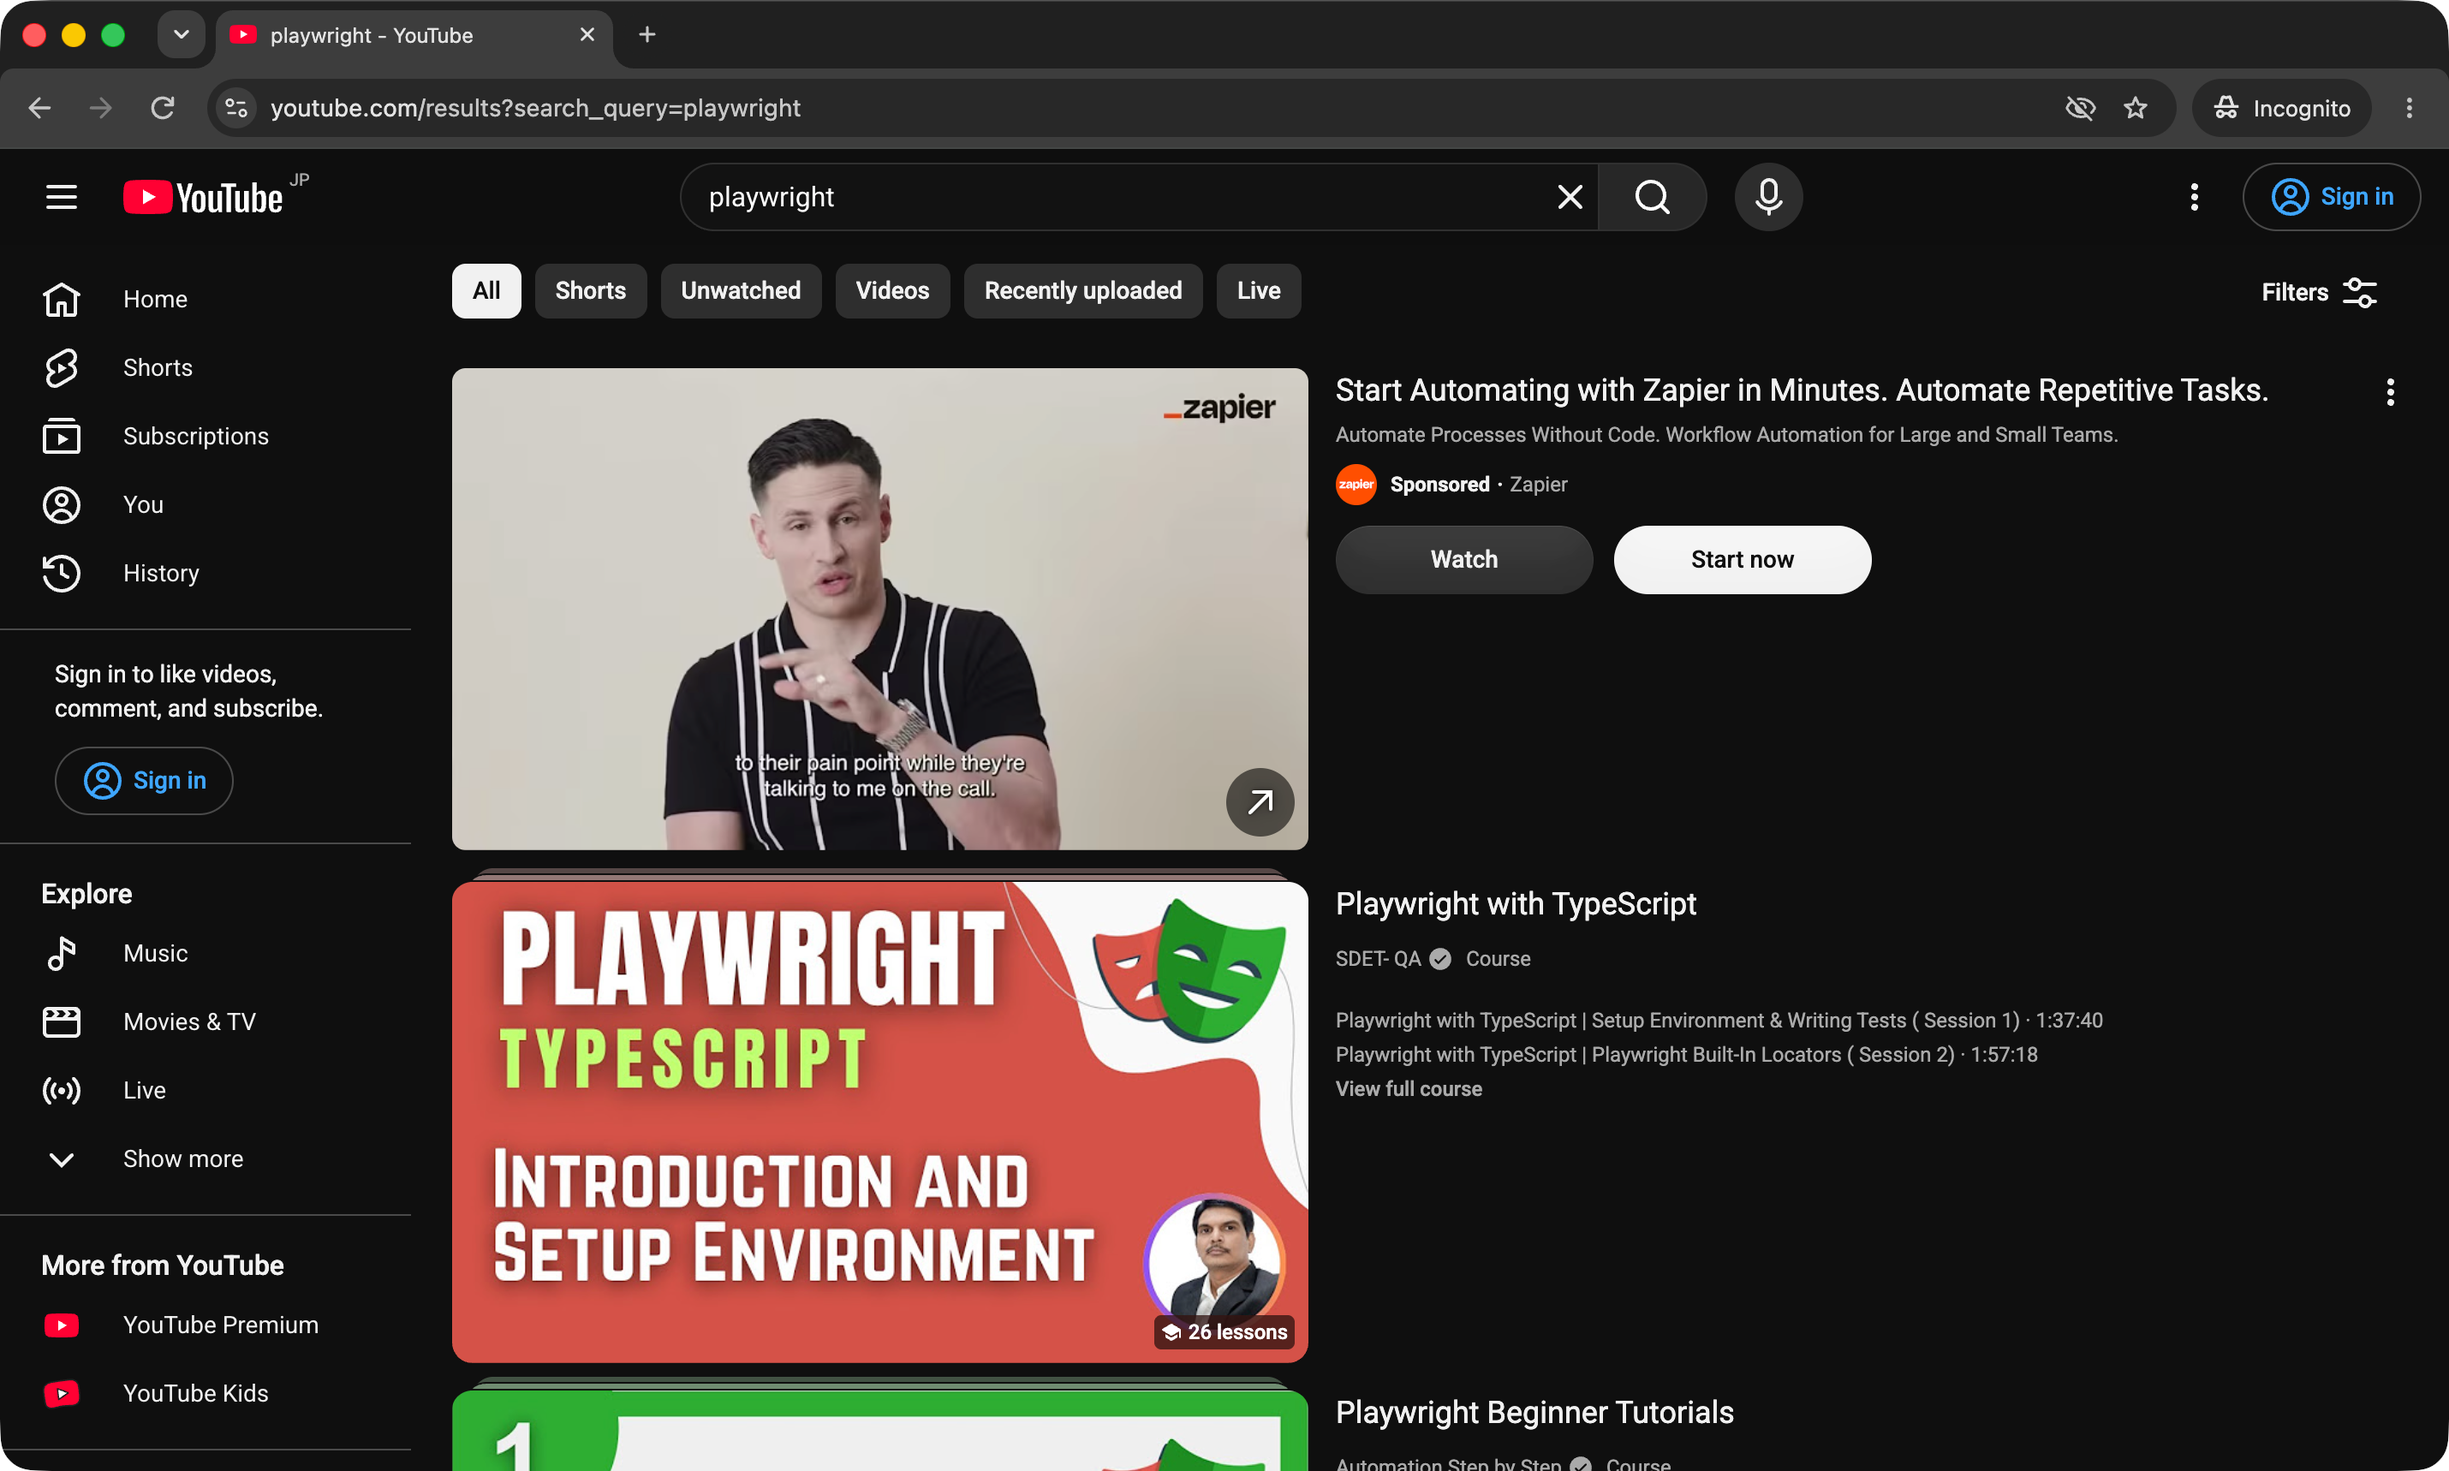
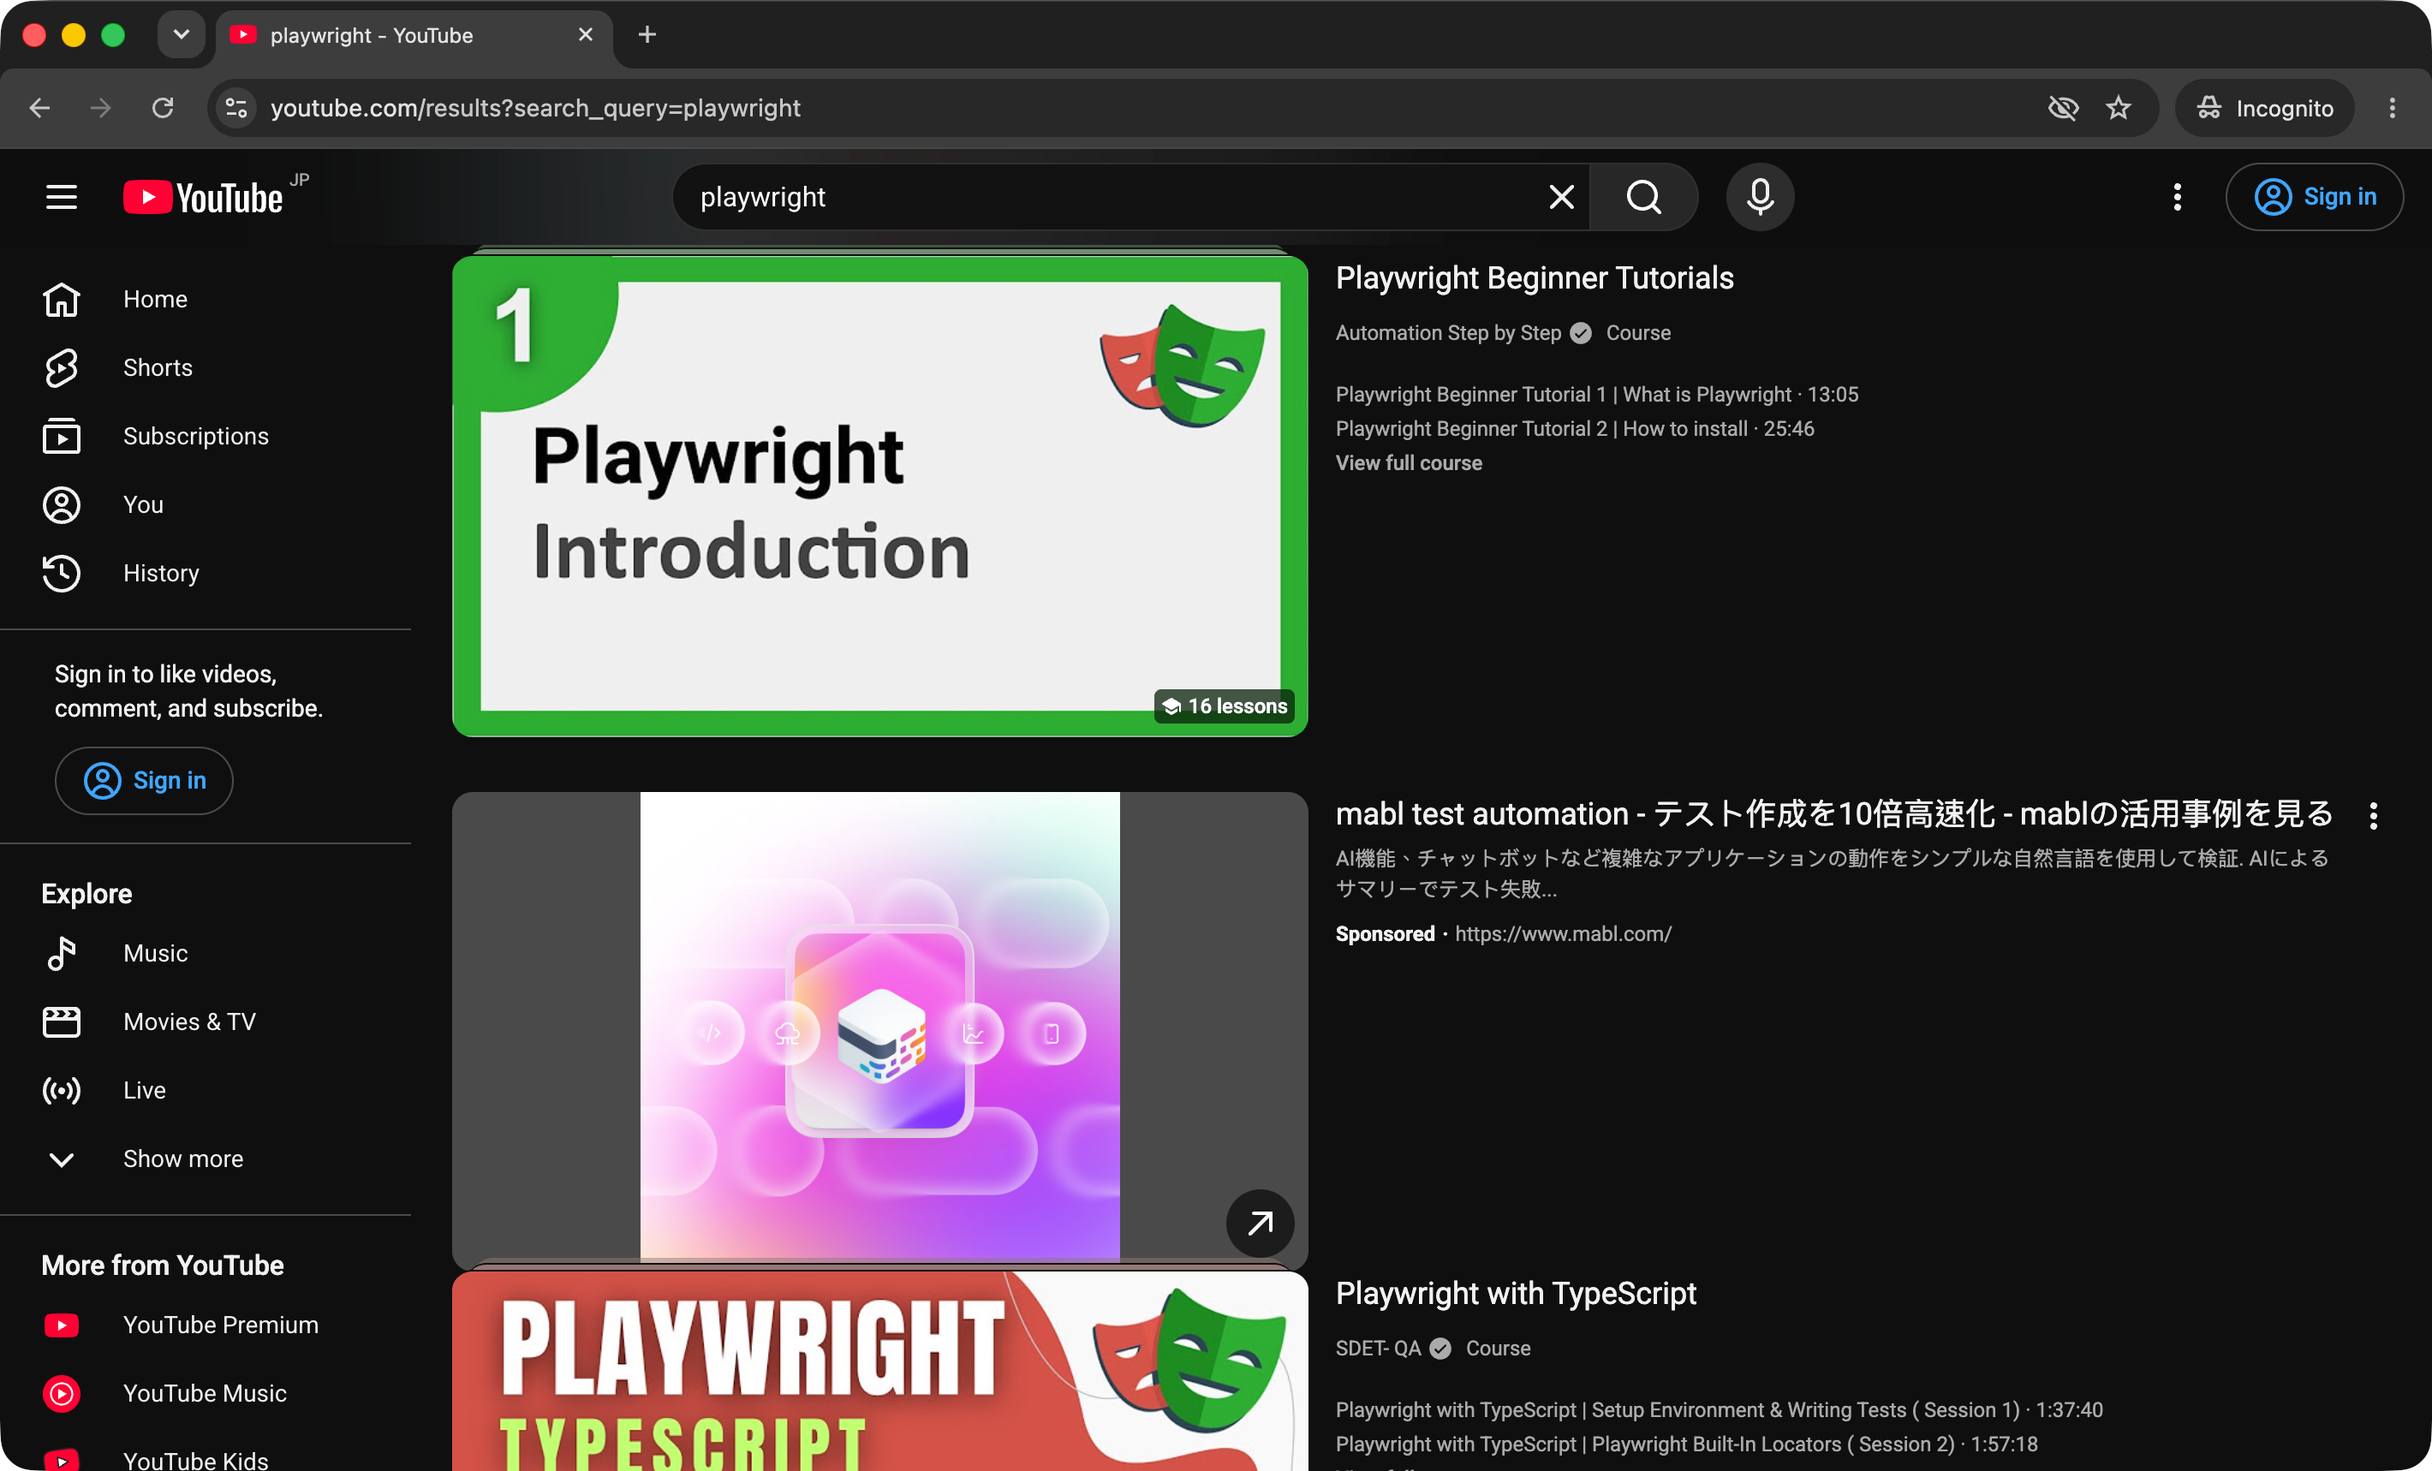
docs: refresh the license badge and host Chrome screenshot

diff --git a/README.md b/README.md
@@ -4,7 +4,7 @@
 [![Build](https://img.shields.io/github/actions/workflow/status/sideef5ect/cdp-browser/build-image.yaml?branch=master&label=build)](https://github.com/sideef5ect/cdp-browser/actions/workflows/build-image.yaml)
 [![Image](https://img.shields.io/badge/ghcr.io-cdp--browser-2496ED?logo=docker&logoColor=white)](https://github.com/sideef5ect/cdp-browser/pkgs/container/cdp-browser)
 [![Platforms](https://img.shields.io/badge/platform-amd64%20%7C%20arm64-555)](#option-a-docker)
-[![License](https://img.shields.io/github/license/sideef5ect/cdp-browser)](LICENSE)
+[![License](https://img.shields.io/github/license/sideef5ect/cdp-browser?cacheSeconds=86400)](LICENSE)
 
 Give a coding agent a real, persistent browser over the Chrome DevTools Protocol (CDP).
 
